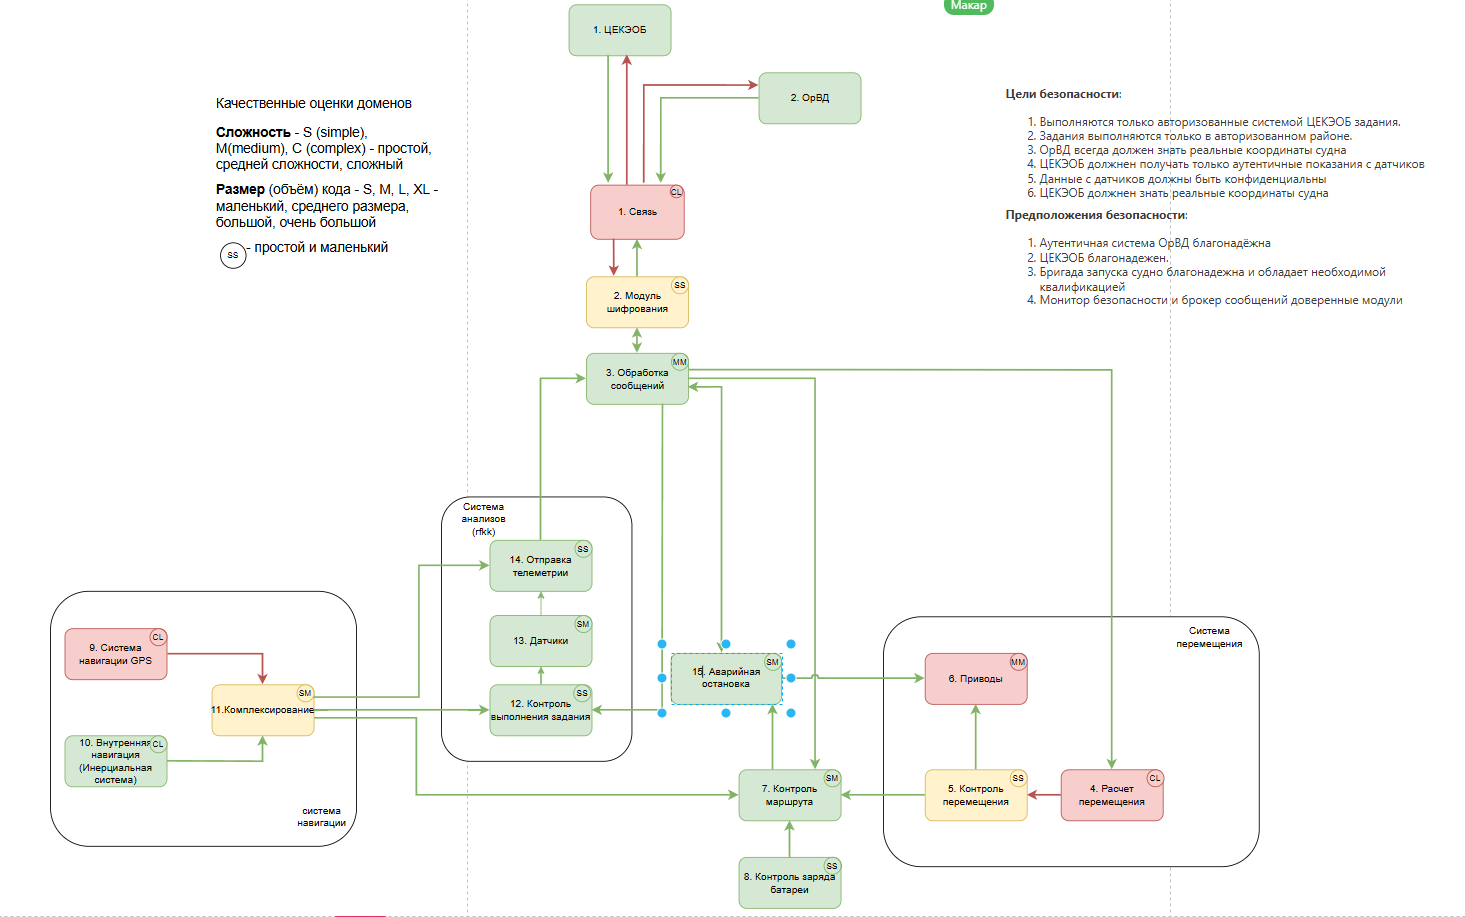
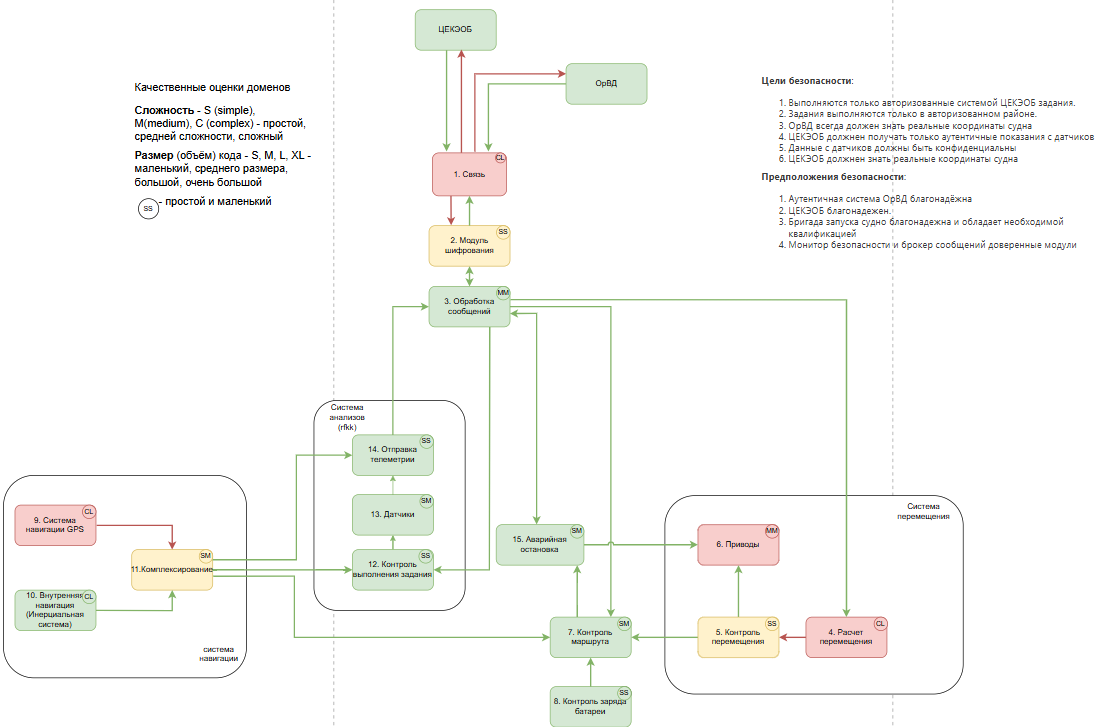
fixes

diff --git a/README.md b/README.md
@@ -22,10 +22,10 @@ In any case there shall be docker-compose locally available - at least for runni
 ### Running complete demo in containerized mode
 
 execute in VS Code terminal window either
-- _make_all_
+- _make all_
 - or _docker-compose up_
 
-then wait about 1 minute. Open the requests.rest file in Visual Studio Code editor. If you have the REST client extention installed, you will see 'Send request' active text above GET ,you can click on it.
+then wait about 1 minute. Open the requests.rest file in Visual Studio Code editor. If you have the REST client extension installed, you will see 'Send request' active text above GET ,you can click on it.
 
 If you click on the application GET link, you shall see in the Response window (will open automatically) the following:
 
@@ -41,81 +41,12 @@ Connection: close
   "status": "CKOB started moving"
 }
 ```
+ This is expected behavior.
 
-##### Update demo
+after this message execute
+- _make logs_
 
-Run the POST request in manager section of requests.rest file, then if all services are up and running the following will happen:
-- in the output window something like this will appear:
-```
-HTTP/1.1 200 OK
-Server: Werkzeug/2.2.2 Python/3.8.13
-Date: Wed, 10 Aug 2022 08:25:33 GMT
-Content-Type: application/json
-Content-Length: 86
-Connection: close
-
-{
-  "id": "5b418446-39f2-456b-bef4-99ff347b1748",
-  "operation": "update requested"
-}
-
-```
-
-- update process will happen and once complete (within a few seconds) the next request in the application section will return
-```
-HTTP/1.1 200 OK
-Server: Werkzeug/2.2.2 Python/3.8.13
-Date: Wed, 10 Aug 2022 08:29:38 GMT
-Content-Type: text/html; charset=utf-8
-Content-Length: 39
-Connection: close
-
-Hello World! Application version 1.0.4b
-```
-
-The application version will be updated from 1.0.3u to 1.0.4b. This is expected behavior.
-
-##### Changing the application
-
-The application file update is stored in file_server/data folder and is called app-update.py. The data folder is mounted as a volume in the file_server container, so any changes of the file will be immediately available to the running container.
-
-To update the running application with own version of the file one shall do the following:
-
-1. edit the app-update.py file
-2. in the get update digest section of requests.rest file send the GET request, the result will look like the following
-```
-HTTP/1.1 200 OK
-Server: Werkzeug/2.2.2 Python/3.8.13
-Date: Wed, 10 Aug 2022 08:35:36 GMT
-Content-Type: text/html; charset=utf-8
-Content-Length: 86
-Connection: close
-
-68b7d62551d332e395d2c302fc654d45cf836d576da628a06805d19113a89fea sha256 app-update.zip
-```
-3. copy the sha256 digest (in the example above it is 68b7d62551d332e395d2c302fc654d45cf836d576da628a06805d19113a89fea) and paste in the update POST request in the manager section of requests.rest, see the digest field:
-```
-POST http://localhost:6000/update HTTP/1.1
-content-type: application/json
-auth: very-secure-token
-
-{
-    "url":"http://file_server:6001/download-update/app-update.zip", 
-    "target": "app", 
[1 lines of base64/hex data omitted]
-    "digest_alg": "sha256"
-}
-```
-4. send the modified POST request, once the update is done (again a few seconds might be required, see the docker-compose logs ouptut), the final lines shall contain something like
-```
-app_with_updater_1  | [info] handling event 9b66376c-461f-41de-bd58-d224d9782cc3, storage->updater: blob_content
-app_with_updater_1  | [info]===== EXECUTING UPDATE 9b66376c-461f-41de-bd58-d224d9782cc3 ====
-app_with_updater_1  | Archive:  tmp/9b66376c-461f-41de-bd58-d224d9782cc3
-app_with_updater_1  |   inflating: ../app/app.py           
-app_with_updater_1  | [info] update result code 0
-```
-5. send the application GET request and observe the updated application output
-
+and see the imitate of boat moving
 
 #### Troubleshooting
 

diff --git a/report.md b/report.md
@@ -356,6 +356,13 @@
 |НС-3|Тест Негативного сценария 11, 12. Злоумышленник взламывает модуль "Расчет перемещения"/"приводы", но модуль "Контроль маршрута" фиксирует отклонение от маршрута и судно совершает аварийную остановку, ЦБ не нарушены|
 |НС-4|Тест Негативного сценария 13, 14. Злоумышленник cкомпрометировал модуль "Система навигации GPS", но модуль "Комплексирования" сравнил результаты с данными модуля "Внутренняя навигация (Инерциальная система)" и выявил взлом, ЦБ не нарушены|
 
+НС-1
+
+![alt text](images/neg_test1.png)
+
+НС-2
+
+![alt text](images/neg_test2.png)
 
 НС-3
 
